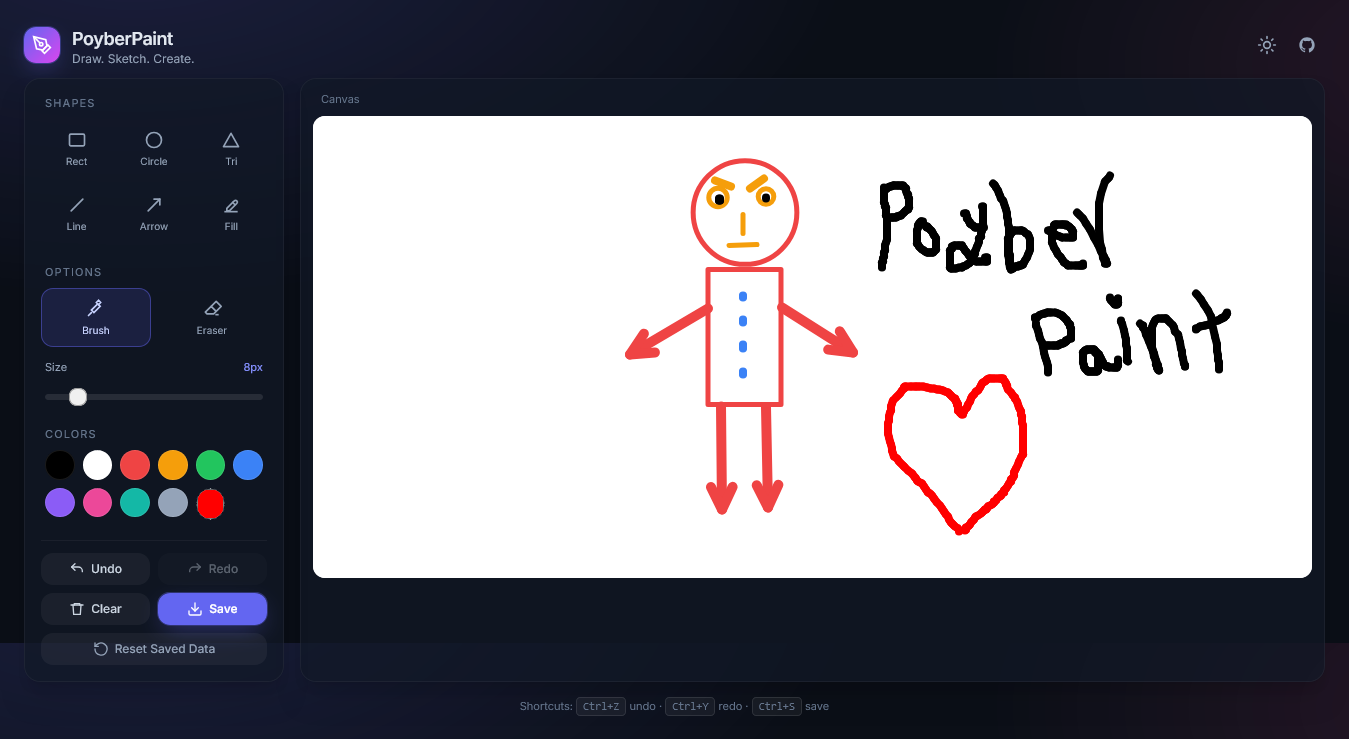
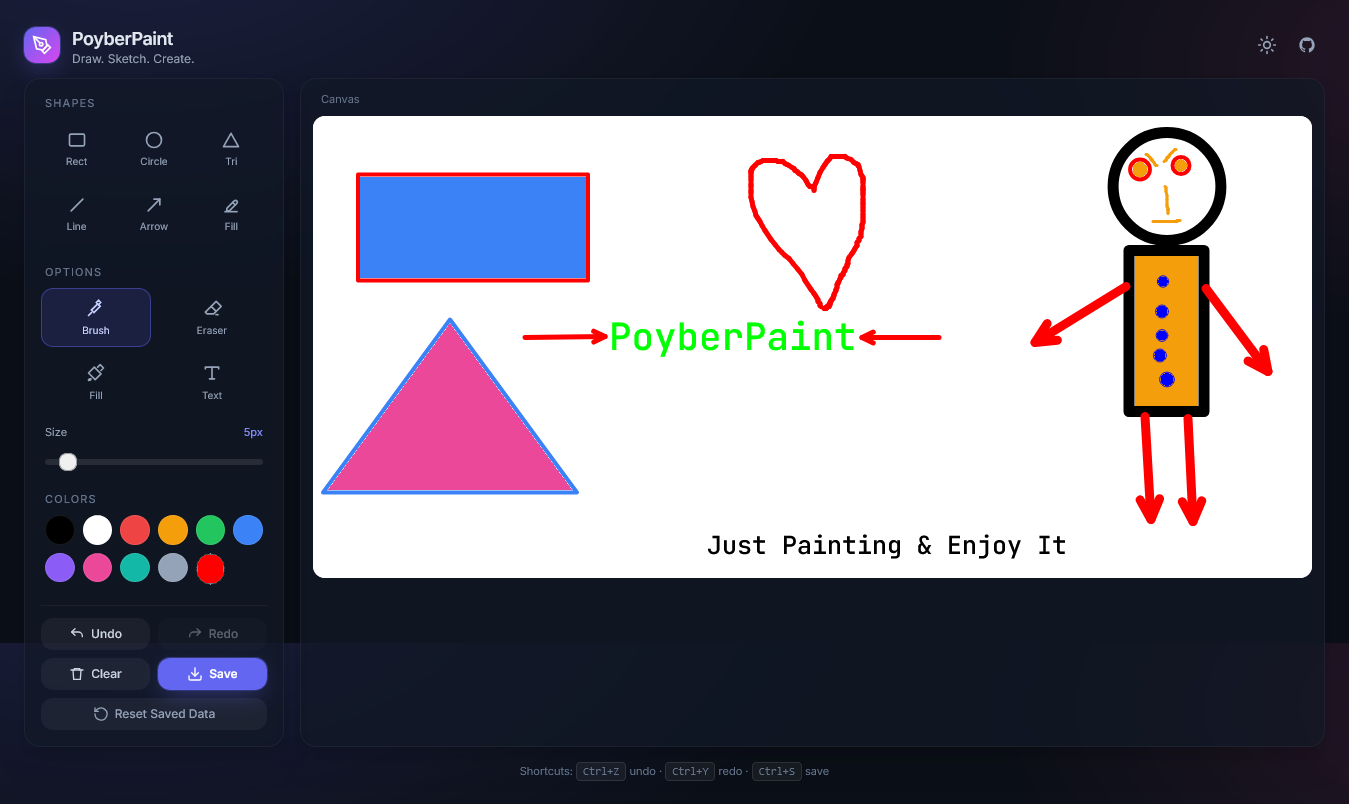
docs: update README with new features and screenshots

diff --git a/README.md b/README.md
@@ -29,13 +29,15 @@ Draw. Sketch. Create.
 <tr>
 <td width="50%">
 
-### 🎨 Drawing
+### 🎨 Drawing Tools
 
-- 🖌 **Brush & Eraser** — smooth freehand drawing
-- 📏 **Line & Arrow** — with dynamic arrowheads
+- 🖌 **Brush** — smooth freehand drawing
+- 🧽 **Eraser** — clean up your canvas
+- ✍ **Text** — click, type, and place text anywhere
+- 📏 **Line** — draw straight lines
+- ➡ **Arrow** — with dynamic arrowhead geometry
 - 🔷 **Shapes** — rectangle, circle, triangle
-- 🎯 **Adjustable size** — from 1px to 60px
-- 🎨 **Color palette** — 10 presets + custom picker
+- 🪣 **Flood Fill** — BFS-based bucket tool
 
 </td>
 <td width="50%">
@@ -79,7 +81,7 @@ Draw. Sketch. Create.
 |   **Logic**   | Vanilla JavaScript (ES6+)      |
 | **Rendering** | HTML5 Canvas API               |
 |   **Icons**   | Inline SVG                     |
-|   **Font**    | Inter (Google Fonts)           |
+|   **Font**    | Inter + JetBrains Mono         |
 |  **Storage**  | LocalStorage                   |
 |  **Hosting**  | GitHub Pages                   |
 
@@ -91,10 +93,12 @@ Draw. Sketch. Create.
 
 Building PoyberPaint helped me practice:
 
-- 🎨 **Canvas API** — `getImageData`, `putImageData`, paths, transforms, `drawImage`
+- 🎨 **Canvas API** — `getImageData`, `putImageData`, paths, transforms, `fillText`
+- 🪣 **Flood Fill algorithm** — BFS traversal with anti-alias tolerance
 - 🖱 **Pointer Events** — unified mouse / touch / stylus handling with `setPointerCapture`
 - 🖥 **DPR-aware rendering** — crisp output on retina displays using `devicePixelRatio`
 - 📐 **Vector math** — arrowhead geometry via `Math.atan2` and trigonometry
+- ✍ **Hybrid DOM + Canvas** — floating `<input>` for text, committed to canvas
 - 🗂 **State management** — undo/redo stack with bounded history, no framework
 - 💽 **Persistence** — canvas + settings via `LocalStorage` with graceful fallbacks
 - ⏱ **Debouncing** — smooth canvas resize handling
@@ -166,41 +170,40 @@ PoyberPaint/
 
 ## 🗺 Roadmap
 
-☑ Brush, eraser, shapes
+☑Brush, eraser, shapes
 
-☑ Line & arrow tools
+☑Line & arrow tools
 
-☑ Undo / redo
+☑Text tool
 
-☑ Save as PNG
+☑Flood fill (bucket)
 
-☑ Responsive dark UI
+☑Undo / redo
 
-☑ Light / dark theme toggle
+☑Save as PNG
 
-☑ LocalStorage persistence
+☑Responsive dark UI
 
-□ Text tool
+☑Light / dark theme toggle
 
-□ Flood fill (bucket)
+☑LocalStorage persistence
 
-□ Layer system
+□Layer system
 
-□ Export to SVG
+□Export to SVG
 
-□ Background image upload
-
+□Background image upload
 
 ## 🤝 Contributing
 
 Contributions, issues, and feature requests are welcome!
-Feel free to check the [issues](https://github.com/ashkanpoyber/PoyberPaint/issues) page.
+Feel free to check the [issues page](https://github.com/ashkanpoyber/PoyberPaint/issues).
 
 If you like this project, please consider giving it a ⭐
 
 ## 📄 License
 
-This project is licensed under the MIT [License](https://./LICENSE) — see the LICENSE file for details.
+This project is licensed under the MIT License — see the [LICENSE](https://./LICENSE) file for details.
 
 ## 👤 Author
 
@@ -208,10 +211,13 @@ This project is licensed under the MIT [License](https://./LICENSE) — see the 
 
 MohammadReza Dalili (AshkanPoyber)
 
+https://img.shields.io/badge/GitHub-ashkanpoyber-181717?style=for-the-badge&logo=github
+https://img.shields.io/badge/Portfolio-ashkanpoyber.github.io-6366f1?style=for-the-badge&logo=googlechrome&logoColor=white
+
 </div><div align="center">
 
 ⭐ If you like this project, give it a star! ⭐
 
 Made with ❤ by AshkanPoyber
 
-</div>
+</div> ```
